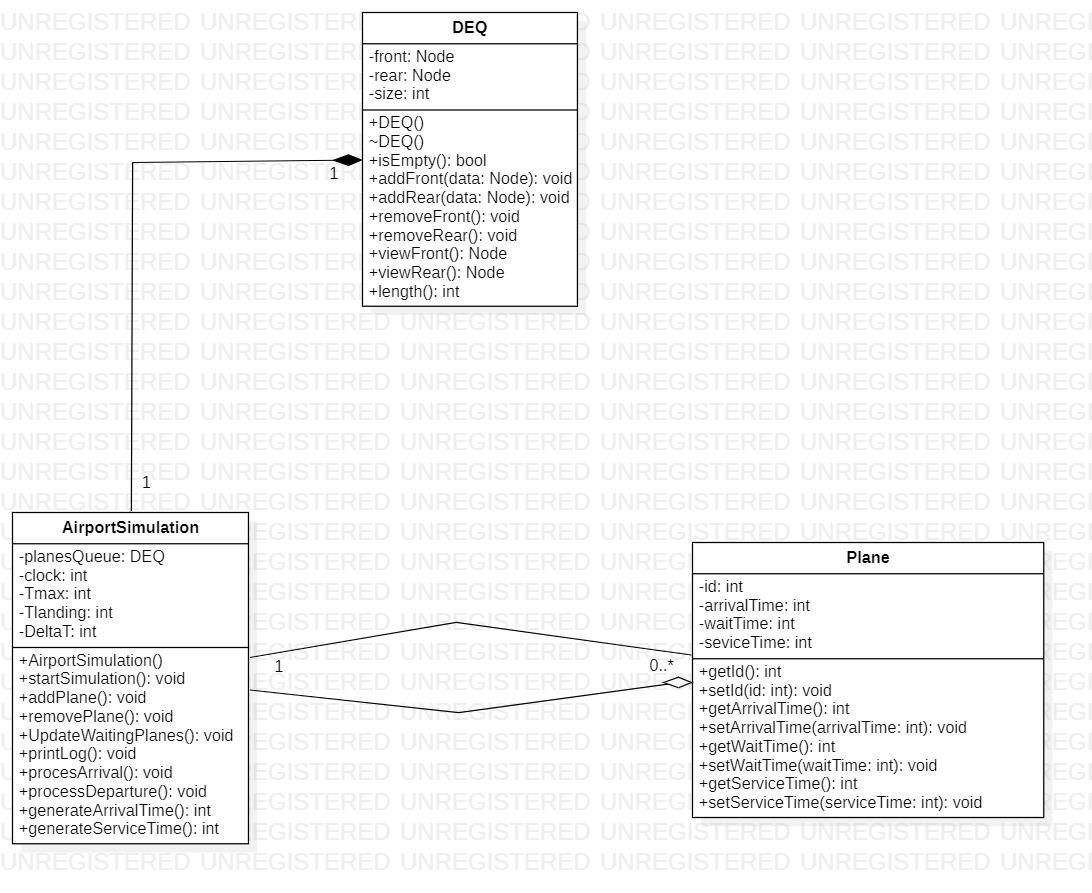
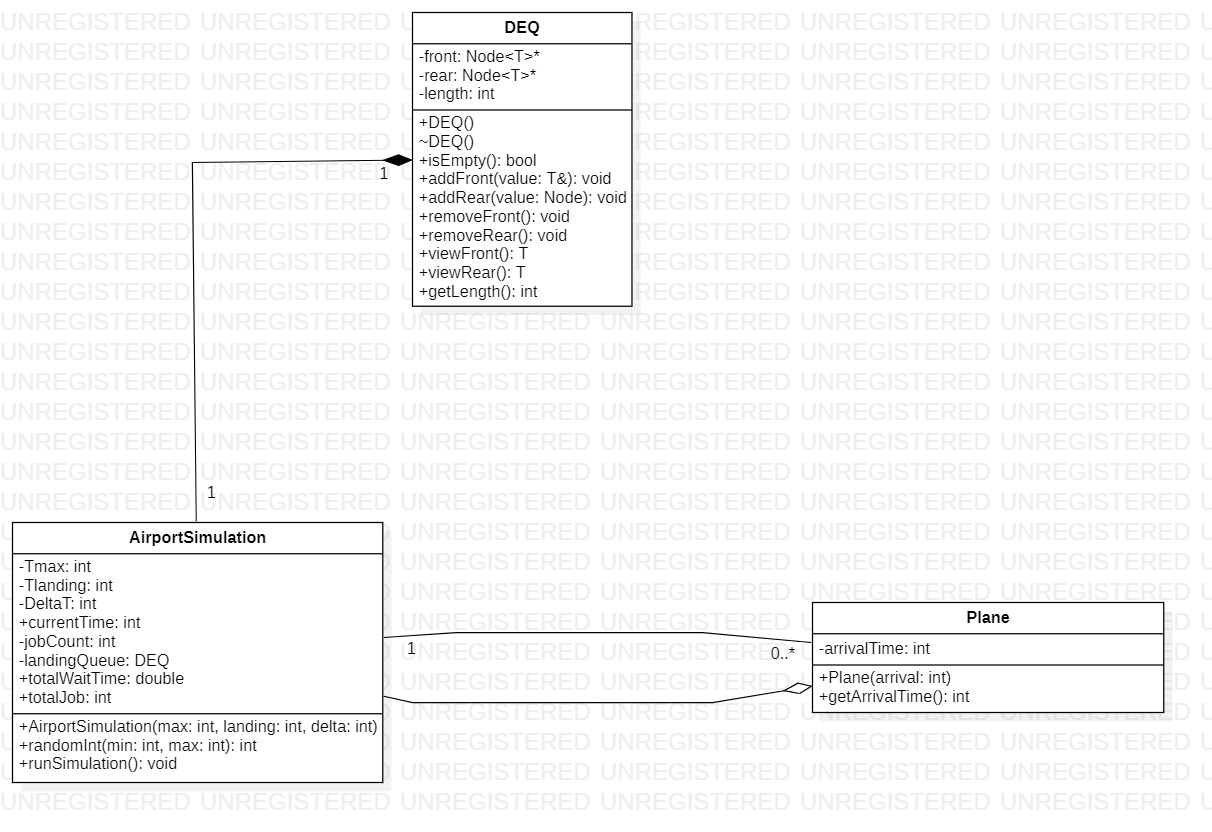
Add files via upload

diff --git a/Design/Architecture Design.md b/Design/Architecture Design.md
@@ -3,13 +3,41 @@
 # UML Explanation
 The UML diagram consists of three classes: Plane, DEQ, and AirportSimulation.
 
-Plane class represents the planes that arrive at the airport. It will have the following attributes: id: A unique identifier for each plane. arrival_time: The time at which the plane arrives at the airport. wait_time: The time the plane has spent waiting in the queue. service_time: The time taken by the plane to land and clear the runway.
+Plane class represents the planes that arrive at the airport.
+  It will have the following attributes:
+  id: A unique identifier for each plane.
+  arrival_time: The time at which the plane arrives at the airport.
+  wait_time: The time the plane has spent waiting in the queue.
+  service_time: The time taken by the plane to land and clear the runway.
+  
+DEQ class represents the Double-ended Queue (DEQ) data structure.
+  It will have the following member functions:
+  Constructor: To create an empty DEQ.
+  Destructor: To destroy the DEQ.
+  isEmpty: To test if the DEQ is empty.
+  addFront: To add an element at the front.
+  addRear: To add an element at the rear.
+  removeFront: To remove the element at the front.
+  removeRear: To remove the element at the rear.
+  viewFront: To retrieve the front element without removal.
+  viewRear: To retrieve the rear element without removal.
+  length: To get the number of elements in the DEQ.
+  
+AirportSimulation class simulates the airport queue operations.
+  It will have the following attributes:
+  planes_queue: A DEQ object to store the waiting planes.
+  clock: The current time in the simulation.
+  Tmax: The maximum time for the simulation.
+  Tlanding: The time taken by a plane to land and clear the runway.
+  DeltaT: The average inter-arrival time between planes.
 
-DEQ class represents the Double-ended Queue (DEQ) data structure. It will have the following member functions: Constructor: To create an empty DEQ. Destructor: To destroy the DEQ. isEmpty: To test if the DEQ is empty. addFront: To add an element at the front. addRear: To add an element at the rear. removeFront: To remove the element at the front. removeRear: To remove the element at the rear. viewFront: To retrieve the front element without removal. viewRear: To retrieve the rear element without removal. length: To get the number of elements in the DEQ.
+  It will also have the following member functions:
+  start_simulation: To start the simulation.
+  add_plane_to_queue: To add a new plane to the waiting queue.
+  remove_plane_from_queue: To remove a plane from the waiting queue.
+  update_waiting_planes: To update the wait time of all the planes in the queue.
+  print_log: To print the log of events for each run.
 
-AirportSimulation class simulates the airport queue operations. It will have the following attributes: planes_queue: A DEQ object to store the waiting planes. clock: The current time in the simulation. Tmax: The maximum time for the simulation. Tlanding: The time taken by a plane to land and clear the runway. DeltaT: The average inter-arrival time between planes.
-
-It will also have the following member functions: start_simulation: To start the simulation. add_plane_to_queue: To add a new plane to the waiting queue. remove_plane_from_queue: To remove a plane from the waiting queue. update_waiting_planes: To update the wait time of all the planes in the queue. print_log: To print the log of events for each run.
 
 Relationships between the classes:
 
@@ -18,6 +46,7 @@ Plane class and AirportSimulation class: The Plane class is a component of the A
 DEQ class and AirportSimulation class: The DEQ class is a component of the AirportSimulation class, meaning that the AirportSimulation class uses the DEQ class to represent the waiting queue of planes at the airport. This is a composition relationship.
 
 DEQ class and Plane class: The DEQ class contains instances of the Plane class, meaning that the DEQ class uses the Plane class to store planes in the waiting queue. They don't have a direct relationship. The DEG class is used to make a storage container for the planes.
+
 
 
 
